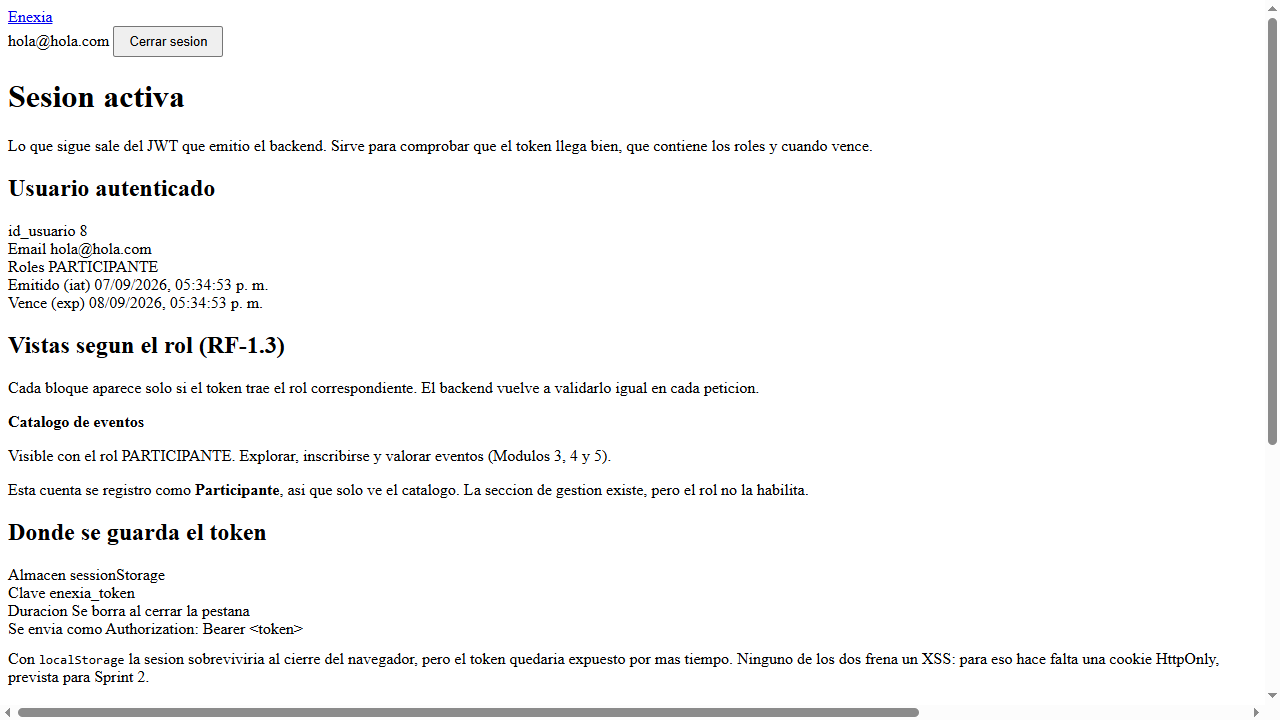
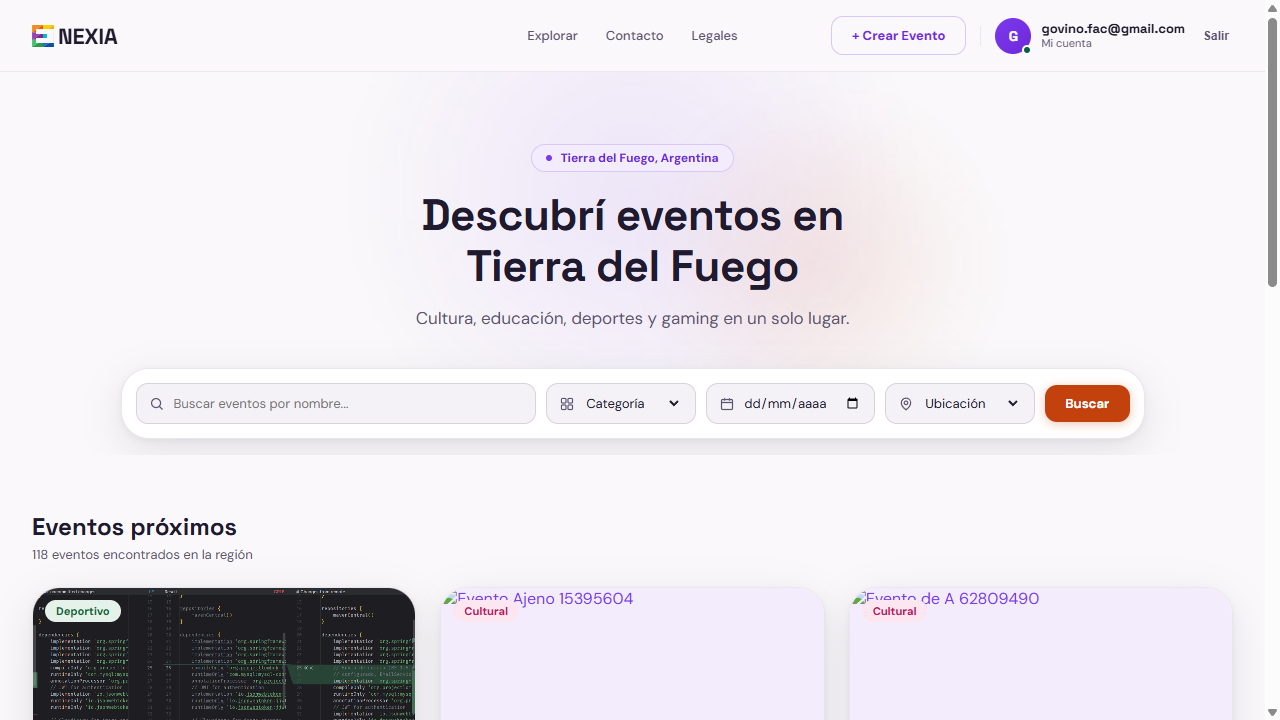
Tests

diff --git a/enexia/src/test/java/com/enexia/rg/RegistroTest.java b/enexia/src/test/java/com/enexia/rg/RegistroTest.java
@@ -9,24 +9,26 @@ import org.springframework.boot.test.context.SpringBootTest;
 
 import com.microsoft.playwright.options.WaitForSelectorState;
 
-import pages.RegisterPage;
-import pages.RegisterPage.DatosRegistro;
+import com.enexia.rg.pages.RegisterPage;
+import com.enexia.rg.pages.RegisterPage.DatosRegistro;
+
+import com.enexia.rg.pages.LoginPage;
 
 /**
  * Pruebas de extremo a extremo del registro de Persona Fisica (RF-1.1).
- *
+ * !
  * A diferencia de AuthServiceRegistroTest, que aisla el service con mocks, aca
  * corre el sistema completo: navegador real -> HTML/JS -> Spring -> MariaDB.
  * Es la unica capa capaz de detectar los errores de integracion, que son
  * justamente los que mas cuestan encontrar a mano: un name de input que no
  * coincide con el campo del DTO, un CORS mal configurado o un mensaje de error
  * que el backend manda pero la pantalla nunca pinta.
- *
+ * !
  * {@code DEFINED_PORT} levanta la aplicacion en el 8080 del
  * application.properties, que es el mismo origen desde donde Spring sirve el
  * HTML estatico. Requiere MariaDB corriendo y el puerto 8080 libre: si hay un
  * bootRun abierto, hay que cerrarlo antes.
- *
+ * !
  * Cada prueba genera su propia identidad: el alta no se puede deshacer (el
  * sistema usa borrado logico, nunca DELETE), asi que reutilizar un email haria
  * que la suite pase una sola vez.
@@ -267,7 +269,7 @@ public class RegistroTest extends BaseTest {
 
         // Cierre del circuito: si el alta guardara la clave en claro o con otro
         // algoritmo, el BCrypt.matches() del login fallaria aca.
-        pages.LoginPage login = new pages.LoginPage(page);
+        LoginPage login = new LoginPage(page);
         login.navegar();
         login.login(datos.email, datos.password);
 

diff --git a/enexia/src/test/java/com/enexia/rg/LoginTest.java b/enexia/src/test/java/com/enexia/rg/LoginTest.java
@@ -2,7 +2,9 @@ package com.enexia.rg;
 
 import org.junit.jupiter.api.Test;
 import org.springframework.boot.test.context.SpringBootTest;
-import pages.LoginPage;
+import com.enexia.rg.pages.LoginPage;
+
+import java.util.regex.Pattern;
 
 import static com.microsoft.playwright.assertions.PlaywrightAssertions.assertThat;
 import static org.junit.jupiter.api.Assertions.assertEquals;
@@ -30,22 +32,25 @@ public class LoginTest extends BaseTest{
     }
 
     @Test
-    public void loginFallido() {
+    public void loginExitoso() {
 
-        // Navegar hacia el front e intentar iniciar sesion.
         LoginPage loginPage = new LoginPage(page);
         loginPage.navegar();
+        loginPage.login("govino.fac@gmail.com", "Contraseña1");
 
-        // Captura de argumentos por consola.
-        String email = System.getProperty("email", "ejemplo@gmail.com");
-        String password = System.getProperty("pass", "password");
-
-        loginPage.login(email, password);
-
-        // Espera automáticamente hasta 5 segundos a que la API responda y el JS pinte el mensaje
-        assertThat(loginPage.mensaje()).hasText("Credenciales inválidas");
-
+        // Las aserciones van en el test
+        assertThat(page).hasTitle(Pattern.compile("Enexia - Eventos en Tierra del Fuego"));
     }
 
+    @Test
+    public void loginFallido() {
 
+
+        LoginPage loginPage = new LoginPage(page);
+        loginPage.navegar();
+        loginPage.login("govinooo.fac@gmail.com", "Contraseña1");
+
+        // Las aserciones van en el test
+        assertThat(loginPage.mensaje()).hasText("Credenciales inválidas");
+    }
 }
